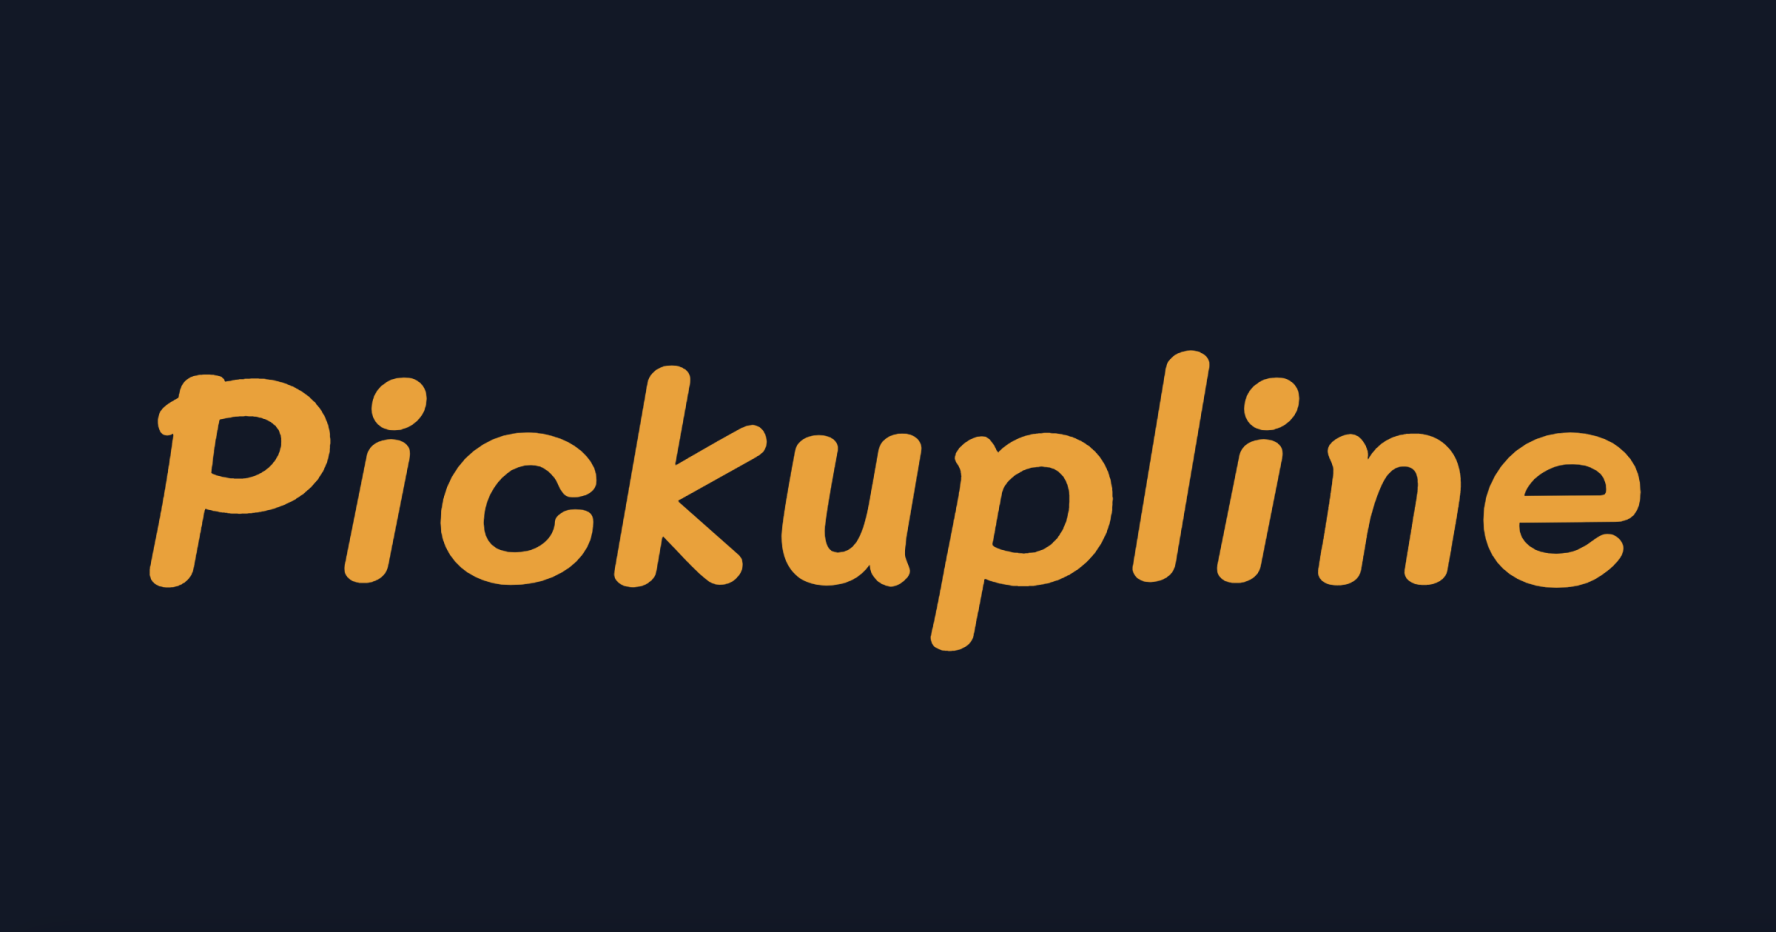
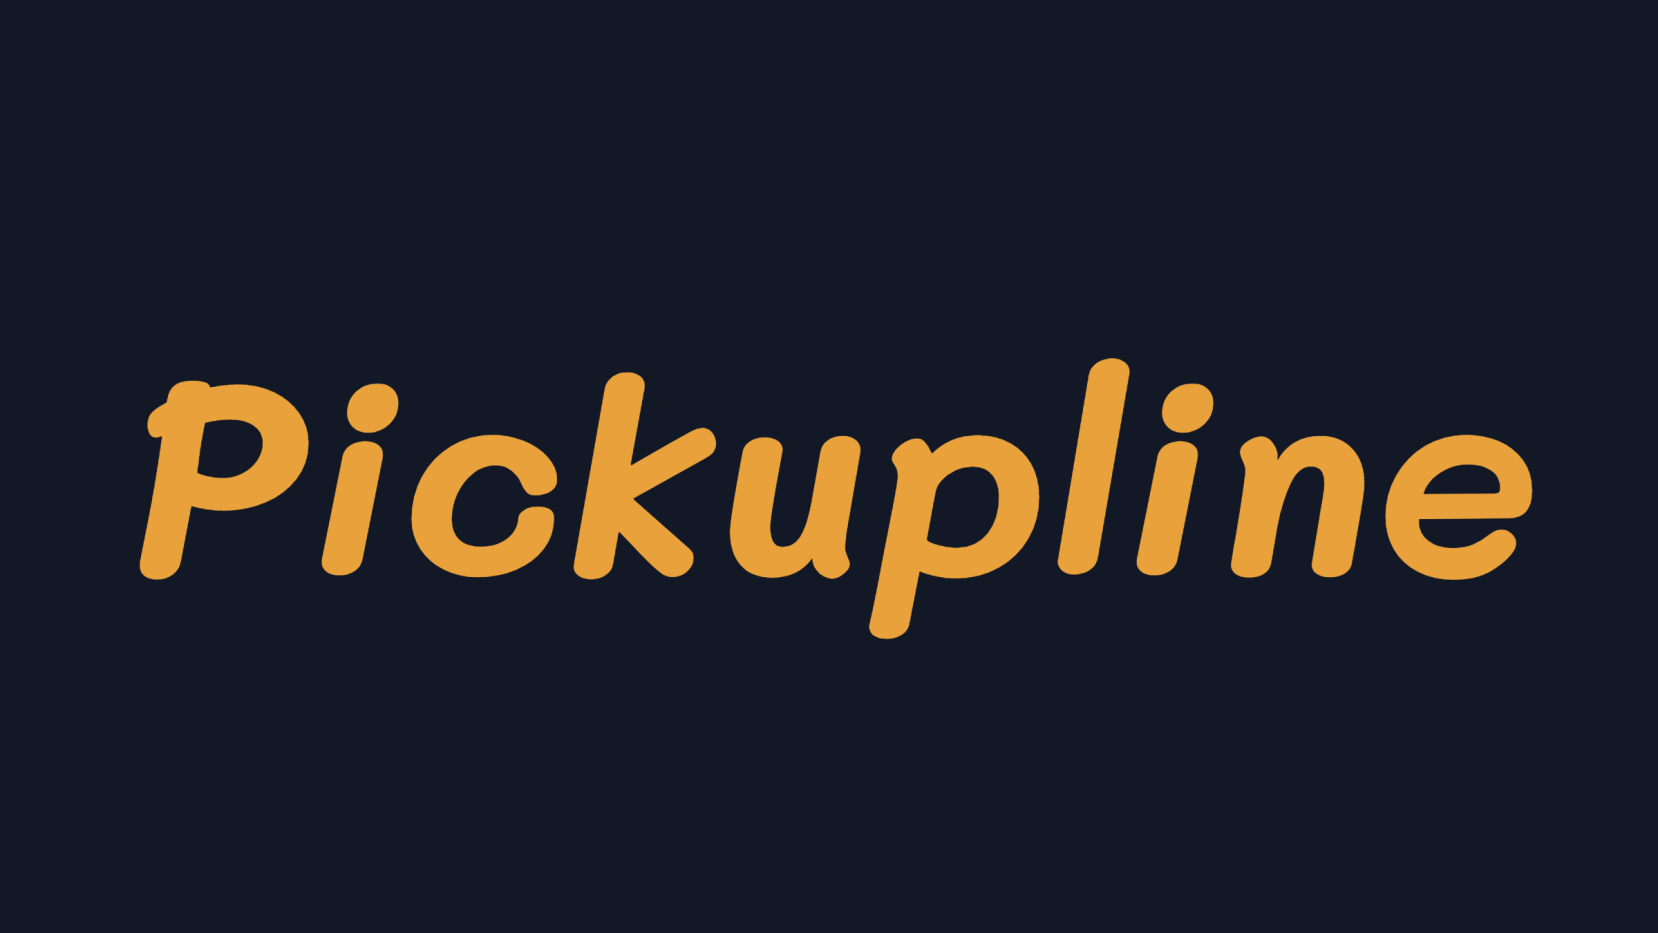
1200/675

diff --git a/pages/ogImage.vue b/pages/ogImage.vue
@@ -1,6 +1,6 @@
 <template>
   <div class="p-10 h-full w-full">
-    <div class="text-amber-500 w-[1200px] h-[630px] border-red border text-[200px] italic font-bold text-center flex box-content">
+    <div class="text-amber-500 w-[1200px] h-[675px] border-red border text-[200px] italic font-bold text-center flex box-content">
       <span class="my-auto align-middle leading-[0.5] mx-auto">Pickupline</span>
     </div>
   </div>

diff --git a/nuxt.config.js b/nuxt.config.js
@@ -69,9 +69,9 @@ export default {
       theme_color: '#111827',
       twitterCard:'summary_large_image',
       ogImage: {
-        path:'/display.png',
+        path:'/display.png?mar3',
         width:'1200',
-        height:'630',
+        height:'675',
         type:'image/png'
       }
     },
